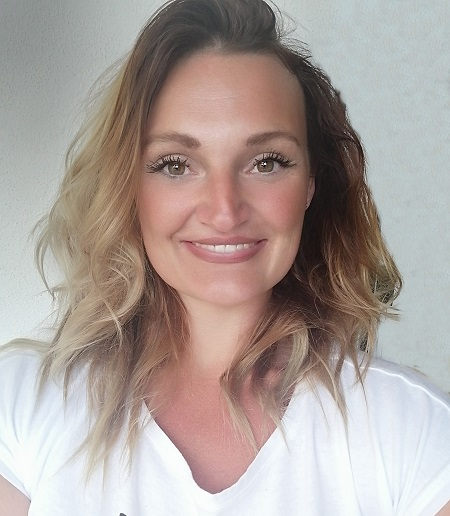
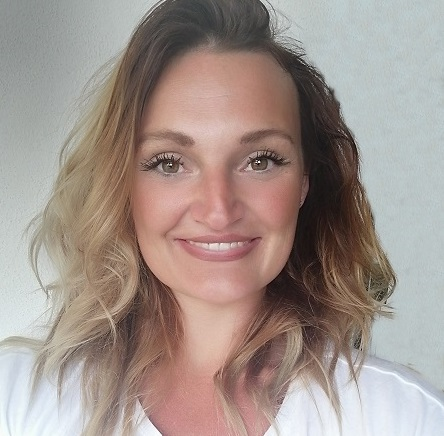
Prace s CSS

diff --git a/index.html b/index.html
@@ -11,24 +11,27 @@
     <link rel="stylesheet" href="style.css">
 </head>
 <body>
-<!--úvod-->
-<header>
-<h1>Petra Pekařová</h1>
+
+
+<!--hlavička stránky-->
+<header class="hlavicka">
+    <h1>Petra Pekařová</h1>
 </header>
 
 <!--Menu-->
-<ul>
-    <li>O mně</li>
-    <li>Praxe</li>
-    <li>Vzdělání</li>
-    <li>Co dalšího Vám mohu a nemohu zatím nabídnout</li>
-    <li>Kontaktní údaje</li>
+<ul class="menu">
+    <li><a href="#omne">O mně</a></li>
+    <li><a href="#praxe">Praxe</a></li>
+    <li><a href="#vzdelani">Vzdělání</a></li>
+    <li><a href="#znalosti">Znalosti a dovednosti</a></li>
+    <li><a href="#kontakt">Kontaktní údaje</a></li>
 </ul>
 
 <!-- Sekce O mně-->
-<section>
+<section class="omne" id="omne">
 <h2>O mně</h2>
-<img src="fotografie/IMG_20200707_164627.jpg" alt="Petra Pekařová">
+
+<img class="mojefoto" src="fotografie/IMG_20200707_164627.jpg" alt="Petra Pekařová">
 
 <p>Vystudovaná fotografka, nadšená gamerka, IT recruiterka, která zatoužila po profesní změně.</p>
 
@@ -41,7 +44,7 @@ a spoustu času, tak věřím, že to bude stát za to.</p>
 </section>
 
 <!--Sekce Praxe-->
-<section>
+<section class="praxe" id="praxe">
 <h2>Praxe</h2>
 <h3>IT Recruiter, teamIT s.r.o.</h3>
 <h4>8/2021 - dosud</h4>
@@ -82,18 +85,21 @@ a spoustu času, tak věřím, že to bude stát za to.</p>
 </section>
 
 <!-- Sekce Vzdělání-->
-<section>
+<section class="vzdelani" id="vzdelani">
+
 <h2>Vzdělání</h2>
-<ul>
-<li>2012 – 2015	VOŠ Podskalská, Praha. Obor: personální řízení</li>
-<li>2010 – 2012	Střední odborné učiliště gastronomie, Praha. Obor: podnikání</li>
-<li>2007 – 2010	SOU Karoliny Světlé, Jihlava. Obor: fotograf</li>
-</ul>
+    <ul>
+        <li>2012 – 2015	VOŠ Podskalská, Praha. Obor: personální řízení</li>
+        <li>2010 – 2012	Střední odborné učiliště gastronomie, Praha. Obor: podnikání</li>
+        <li>2007 – 2010	SOU Karoliny Světlé, Jihlava. Obor: fotograf</li>
+    </ul>
 </section>
 
 <!--Sekce Znalosti, dovednosti, atd.-->
-<section>
-<h2>Co dalšího Vám mohu a nemohu zatím nabídnout</h2>
+<section class="znalosti" id="znalosti">
+
+<h2>Znalosti a dovednosti</h2>
+
 <p>Mou slabou stránkou je zatím angličtina. Celý svůj studijní život jsem zasvětila biflováním němčiny a angličtina mě bohužel minula.
 Proto se snažím všemi možnými prostředky (filmy, seriály, Duolingo, dopisování v angličtině s lidmi na sociálních sítích)
 s tím něco udělat.</p>
@@ -101,24 +107,23 @@ s tím něco udělat.</p>
 <table>
     <tr>
         <td>Řidičský průkaz</td>
-        <td>B</td>
+        <td class="druh">B</td>
     </tr>
     <tr>
         <td>MS Office</td>
-        <td>pokročilá znalost</td>
+        <td class="druh">pokročilá znalost</td>
     </tr>
     <tr>
         <td>Photoshop</td>
         <td>základní znalost</td>
     </tr>
 
-    
 </table>
 </section>
 
 <!--Sekce kontakt-->
-<section>
-<h2>Kontaktní údaje</h2>
+<section class="kontakt" id="kontakt">
+<h2>Kontakt</h2>
 <p>
     Petra Pekařová<br>
     U Zahradního města 2c<br>
@@ -133,7 +138,7 @@ s tím něco udělat.</p>
 </p>
 </section>
 
-<footer>
+<footer class="paticka">
 <p>Petra Pekařová CV 2022</p>
 </footer>
 

diff --git a/style.css b/style.css
@@ -1,6 +1,6 @@
 body{
-    color: #FFDEAD;
-    background-color: #BC8F8F;
+    color: snow;
+    background-color: #946185;
     font-family: 'Montserrat Alternates';
     font-size: 20px;
     line-height: 1.5;
@@ -16,15 +16,15 @@ h3 {
 
 h1 {
     font-size: 90px;
+    font-weight: bold;
     text-align: center;
-    background-color: #2F4F4F;
+    background-color: #5F9EA0;
     margin: 0;
 }
 
 h2 {
     font-size: 40px;
     text-align: center;
-    background-color: #2F4F4F;
     margin: 0;
 }
 
@@ -33,3 +33,51 @@ h3 {
     margin: 0;
     font-style: italic;
 }
+
+
+.mojefoto {
+    width: 200px;
+    border-radius: 50%;
+    float: left;
+    margin: 30px 30px 30px 30px;
+}
+
+.paticka {
+    background-color: black;
+    color: white;
+    text-align: center;
+    padding: 5px 0;
+}
+
+.praxe,
+.kontakt {
+    background-color: #5F9EA0;
+}
+
+section {
+    padding: 50px 15%;
+    overflow: auto;
+}
+
+.menu {
+    margin: 0;
+    padding: 0;
+    text-align: center;
+    background-color: black;
+}
+
+.menu li {
+    display: inline-block;
+    background-color: black;
+}
+.menu a {
+    display: inline-block;
+    color: white;
+    text-decoration: none;
+    padding: 20px 30px;
+}
+
+.menu a:hover,
+.menu a:focus,
+.menu a:active
+
